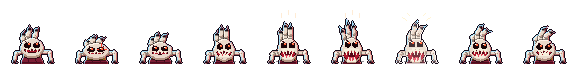
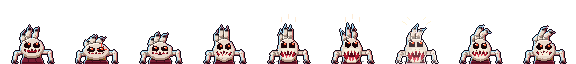
art: puppet_reach_up reach_height_px 40 (catch-frame claw tips at y 23, frame 5 peak 41px)

diff --git a/docs/DESIGN.md b/docs/DESIGN.md
@@ -32,7 +32,7 @@ Style: Dead Cells / fancy modern SNES — full-color creepy, flashlight as brigh
 | puppet_startle | art/characters/puppet_startle.png | 64² | 7f @14fps, pivot [32, 63]: hero startle: anticipation, flash+smear impact, scream mouth ~½ face height with red inner mouth + big teeth readable at 1×, red glint; hold frame 6 |
 | puppet_chase | art/characters/puppet_chase.png | 64² | 8f @14fps loop, pivot [32, 63]: enraged **scuttle** — fingers walk like legs on the floor (alternating pairs, feet on y≈62), forward lean + body bob on contacts 0/4, scream mouth snaps on 4 |
 | puppet_chase_float | art/characters/puppet_chase_float.png | 64² | 8f @14fps loop, pivot [32, 63]: previous floating snap loop, kept for the stage 4–5 float tier |
-| puppet_reach_up | art/characters/puppet_reach_up.png | 64² | 9f @10fps (0.9 s), no loop, pivot [32, 63], **`hit_frame = 6`**, **`reach_height_px = 44`**: walker under a boy perched on 1–2 tile furniture. 0–5 windup telegraph (look up, crouch + red eye glint on 1, coil, stand on thumb + pinky with three fingers stretching straight up, speed dashes on 4–5, max stretch on 5), 6 snap grab = catch frame, 7 clench, 8 settle. Claws carry a 1px light rim on 4–7 for unlit readability over the boy. Claw tips on the catch frame sit 44 px above the pivot (frame y 19): 12 px over a 2-tile (32 px) furniture top, 4 px short of a 3-tile (48 px) top. Code: apply the catch on `hit_frame` (0.60 s in at 10fps, the ~0.6 s reach), so a hop-off during 0–5 escapes. Template: red dotted row = reach line, green dotted row = 2-tile top, catch frame boxed red |
+| puppet_reach_up | art/characters/puppet_reach_up.png | 64² | 9f @10fps (0.9 s), no loop, pivot [32, 63], **`hit_frame = 6`**, **`reach_height_px = 40`**: walker under a boy perched on 1–2 tile furniture. 0–5 windup telegraph (look up, crouch + red eye glint on 1, coil, stand on thumb + pinky with three fingers stretching straight up, speed dashes on 4–5, max stretch on 5), 6 snap grab = catch frame, 7 clench, 8 settle. Claws carry a 1px light rim on 4–7 for unlit readability over the boy. Claw tips on the catch frame sit 40 px above the pivot (frame y 23; peak 41 px on frame 5): 8 px over a 2-tile (32 px) furniture top, 8 px short of a 3-tile (48 px) top. Code: apply the catch on `hit_frame` (0.60 s in at 10fps, the ~0.6 s reach), so a hop-off during 0–5 escapes. Template: red dotted row = reach line, green dotted row = 2-tile top, catch frame boxed red |
 | vfx_creak | art/props/vfx_creak.png | 32x16 | 5f @12fps, no loop, pivot [16, 15]: dust puff + three squiggly creak lines rising, play at the furniture top when the boy steps on (any furniture); free after the last frame |
 | vase_idle | art/props/vase_idle.png | 32² | still, pivot [16, 31]: standing |
 | vase_thrown | art/props/vase_thrown.png | 32² | 4f @16fps loop, pivot [16, 16]: spin, centre pivot |
